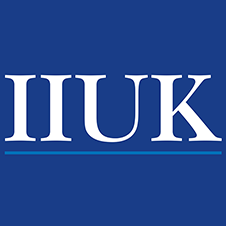
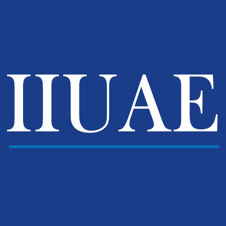
images

Changed region(s): [[0.0, 0.3097, 0.9912, 0.6814]]

diff --git a/pages/login_iiuk.html b/pages/login_iiuk.html
@@ -16,15 +16,15 @@
         Toggle Menu111
         </ons-button> 这一段时跳转到菜单的-->
         <button class="button button--large" id="btn_login" ng-init="" enabled="false" ng-click="login()" ng-show="isready">Login</button>
-        <p><a href="https://www.iiuk.org/Navigation/details.php?t=r" target="_blank" style="color: white; text-decoration: underline;">Forgotten Password?</a></p>
+        <p><a href="https://www.iiuae.org/Navigation/details.php?t=r" target="_blank" style="color: white; text-decoration: underline;">Forgotten Password?</a></p>
 
         <div class="login_content">
             This application is for <br />
-            The Ismaili Community in the UK. <br />
-            For assistance contact <a href="mailto:enquiries@iiuk.org" style="color: white; text-decoration: none;">enquiries@iiuk.org</a>
+            The Ismaili Community in the UAE Jurisdiction. <br />
+            For assistance contact <a href="mailto:qolinfo@ismailicentredubai.org" style="color: white; text-decoration: none;">qolinfo@ismailicentredubai.org</a>
         </div>
         <div class="login_foot" id="footer">
-            &copy; Copyright The Ismaili Council for the UK
+            &copy; Copyright The Ismaili Council for the UAE
         </div>
     </div>
 </ons-page>
